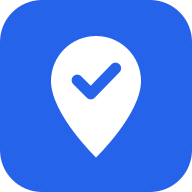
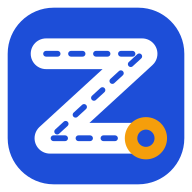
Identidade visual "Rota": símbolo, logotipo em dois pesos, fonte Sora e ícones novos
Claude-Session: https://claude.ai/code/session_01EHX451W5W81AHHNDFqNX2C

diff --git a/frontend/src/components/ModalQRCode.jsx b/frontend/src/components/ModalQRCode.jsx
@@ -1,6 +1,7 @@
 import { useEffect, useState } from 'react'
 import { createPortal } from 'react-dom'
 import { QRCodeSVG } from 'qrcode.react'
+import Logotipo from './Logotipo'
 
 // QR Code com a identidade do app (public/qr-zelador.svg), gerado para https://zeladordigital.vercel.app.
 // Se o endereço oficial mudar, gere de novo; o QR simples (QRCodeSVG) segue como reserva para outros endereços.
@@ -53,8 +54,8 @@ export default function ModalQRCode({ url, onClose, imprimirAoAbrir = false }) {
             ✕
           </button>
           <div className="mb-5">
-            <span className="text-3xl">📲</span>
-            <h2 id="titulo-modal-qr" className="mt-2 text-lg font-black">Divulgue o Zelador Digital</h2>
+            <Logotipo size={30} escuro className="justify-center" />
+            <h2 id="titulo-modal-qr" className="mt-3 text-lg font-black">Divulgue o Zelador Digital</h2>
             <p className="mt-2 text-xs leading-relaxed text-slate-300">
               Leve a fiscalização cidadã para a sua rua em Ananindeua
             </p>
@@ -88,7 +89,7 @@ export default function ModalQRCode({ url, onClose, imprimirAoAbrir = false }) {
         <div className="flex h-[297mm] w-[210mm] flex-col overflow-hidden bg-[#F6F7F2] text-[#14213D]">
           <div className="flex flex-col gap-[4mm] bg-[#1D4ED8] px-[16mm] pb-[13mm] pt-[16mm] text-[#F6F7F2]">
             <p className="text-[11pt] font-black uppercase tracking-[0.25em] text-[#FFE08A]">Ananindeua · zeladoria comunitária</p>
-            <h1 className="text-[52pt] font-black leading-[0.98] tracking-tight">Quem vai consertar a sua rua?</h1>
+            <h1 className="font-marca text-[52pt] font-extrabold leading-[0.98] tracking-tight">Quem vai consertar a sua rua?</h1>
             <p className="max-w-[150mm] text-[15pt] leading-snug text-[#E4EAF5]">A resposta começa com uma foto. Aponte a câmera aqui.</p>
           </div>
           <div className="flex flex-1 flex-col items-center justify-center gap-[5mm]">
@@ -110,7 +111,7 @@ export default function ModalQRCode({ url, onClose, imprimirAoAbrir = false }) {
             ))}
           </div>
           <div className="mx-[16mm] flex items-center justify-between border-t-2 border-[#D9DED3] pb-[11mm] pt-[4.5mm]">
-            <span className="text-[13pt] font-black">Zelador Digital</span>
+            <Logotipo size={36} />
             <span className="text-[10pt] text-[#3E4A61]">Grátis · sem cadastro · zeladordigital.vercel.app</span>
           </div>
         </div>

diff --git a/frontend/src/components/Logotipo.jsx b/frontend/src/components/Logotipo.jsx
@@ -1,0 +1,37 @@
+/**
+ * Marca "Zelador Digital", direção Rota: símbolo (Z feito de rua, com o pino) + nome em dois pesos.
+ * O símbolo é SVG inline para ficar nítido em qualquer tamanho e funcionar offline.
+ */
+export function SimboloMarca({ size = 32, className = '', fundo = '#1D4ED8', traco = '#FFFFFF', acento = '#F59E0B', titulo }) {
+  return (
+    <svg
+      viewBox="0 0 100 100"
+      width={size}
+      height={size}
+      className={className}
+      role={titulo ? 'img' : undefined}
+      aria-label={titulo}
+      aria-hidden={titulo ? undefined : true}
+    >
+      <rect x="4" y="4" width="92" height="92" rx="24" fill={fundo} />
+      <path d="M24 28 H74 L26 72 H76" fill="none" stroke={traco} strokeWidth="16" strokeLinecap="round" strokeLinejoin="round" />
+      <path d="M24 28 H74 L26 72 H76" fill="none" stroke={fundo} strokeWidth="3" strokeDasharray="6 7" strokeLinecap="round" strokeLinejoin="round" />
+      <circle cx="76" cy="72" r="11" fill={acento} />
+      <circle cx="76" cy="72" r="4.5" fill={fundo} />
+    </svg>
+  )
+}
+
+/** Logotipo horizontal. `escuro` para uso sobre fundo escuro. */
+export default function Logotipo({ size = 30, escuro = false, className = '', compacto = false }) {
+  const texto = Math.round(size * 0.78)
+  return (
+    <span className={`inline-flex items-center gap-2 ${className}`}>
+      <SimboloMarca size={size} fundo={escuro ? '#FFFFFF' : '#1D4ED8'} traco={escuro ? '#1D4ED8' : '#FFFFFF'} />
+      <span className="font-marca leading-none tracking-tight whitespace-nowrap" style={{ fontSize: texto }}>
+        <span className={`font-extrabold ${escuro ? 'text-white' : 'text-blue-700'}`}>Zelador</span>{' '}
+        <span className={`font-normal ${escuro ? 'text-white' : 'text-slate-900'} ${compacto ? 'hidden min-[360px]:inline' : ''}`}>Digital</span>
+      </span>
+    </span>
+  )
+}

diff --git a/frontend/index.html b/frontend/index.html
@@ -8,7 +8,7 @@
     
     <!-- Configurações PWA e Dispositivos Móveis -->
     <link rel="manifest" href="/manifest.json" />
-    <meta name="theme-color" content="#2563eb" />
+    <meta name="theme-color" content="#1D4ED8" />
     <meta name="mobile-web-app-capable" content="yes" />
     <meta name="apple-mobile-web-app-capable" content="yes" />
     <meta name="apple-mobile-web-app-status-bar-style" content="black-translucent" />
@@ -17,7 +17,7 @@
     <meta name="description" content="Registre buracos, lixo, postes apagados e esgoto no seu bairro em Ananindeua e acompanhe a resolução pelo número de protocolo." />
     <meta property="og:title" content="Zelador Digital" />
     <meta property="og:description" content="Plataforma cívica independente para mapear e acompanhar problemas urbanos em Ananindeua." />
-    <meta property="og:image" content="/icon-512.png" />
+    <meta property="og:image" content="/og-image.png" />
     <title>Zelador Digital - Gestão Comunitária</title>
   </head>
   <body class="bg-slate-50 antialiased selection:bg-blue-100 selection:text-blue-900">

diff --git a/frontend/src/index.css b/frontend/src/index.css
@@ -1,5 +1,10 @@
 @import "tailwindcss";
 
+/* Fonte da marca (Sora), embutida para funcionar offline. Só títulos e logotipo usam. */
+@font-face { font-family: 'Sora'; font-style: normal; font-weight: 400; font-display: swap; src: url('./assets/sora-latin-400-normal.woff2') format('woff2'); }
+@font-face { font-family: 'Sora'; font-style: normal; font-weight: 600; font-display: swap; src: url('./assets/sora-latin-600-normal.woff2') format('woff2'); }
+@font-face { font-family: 'Sora'; font-style: normal; font-weight: 800; font-display: swap; src: url('./assets/sora-latin-800-normal.woff2') format('woff2'); }
+
 html, body {
   margin: 0;
   padding: 0;
@@ -49,3 +54,4 @@ html.modo-facil .barra-navegacao button > span:last-child { font-size: 0.8125rem
   /* Altura visível real em telemóveis (sem a área por trás da barra de endereço). */
   min-height: 100dvh;
 }
+.font-marca { font-family: 'Sora', system-ui, sans-serif; }

diff --git a/frontend/src/components/ModalSobre.jsx b/frontend/src/components/ModalSobre.jsx
@@ -1,10 +1,11 @@
+import Logotipo from './Logotipo'
 export default function ModalSobre({ setModalSobreAberto, abrirComoUsar }) {
   return (
     <div className="fixed inset-0 z-50 bg-slate-950/70 backdrop-blur-xs flex items-end sm:items-center justify-center p-0 sm:p-4">
       <div className="bg-white w-full max-w-md rounded-t-3xl sm:rounded-3xl p-6 border border-slate-200 shadow-2xl">
         <div className="flex items-start justify-between gap-4">
           <div>
-            <span className="text-[10px] font-black uppercase tracking-wider text-blue-600">Zelador Digital</span>
+            <Logotipo size={26} />
             <h2 className="text-lg font-black text-slate-800 mt-1">Sobre o Desenvolvedor</h2>
           </div>
           <button

diff --git a/frontend/src/components/Header.jsx b/frontend/src/components/Header.jsx
@@ -1,4 +1,5 @@
 import { Accessibility, Bell, Info } from 'lucide-react'
+import Logotipo from './Logotipo'
 
 /**
  * Topo da aplicação: faixas de estado (offline / fila pendente) + barra com título e ações.
@@ -54,10 +55,9 @@ export default function Header({
           <button
             onClick={onIrParaInicio}
             className="text-left focus:outline-none cursor-pointer"
+            aria-label="Zelador Digital, ir para o início"
           >
-            <div>
-              <span className="text-xl font-black text-blue-600 tracking-tight leading-none">Zelador Digital</span>
-            </div>
+            <Logotipo size={32} compacto />
           </button>
 
           <div className="flex items-center gap-2">

diff --git a/CHANGELOG.md b/CHANGELOG.md
@@ -5,6 +5,7 @@ Formato baseado em [Keep a Changelog](https://keepachangelog.com/pt-BR/1.1.0/). 
 ## [Não lançado]
 
 ### Alterado
+- Nova identidade visual "Rota": símbolo (Z feito de rua com o pino do problema), nome em dois pesos com a fonte Sora (embutida, funciona offline), ícones do app, favicon, imagem de compartilhamento e cartaz atualizados. Cor principal #1D4ED8 e detalhe #F59E0B.
 - Código reorganizado: o App.jsx caiu de ~2.450 para ~1.240 linhas, com telas em `src/telas/`, modais em `src/components/` e funções auxiliares em `src/lib/` (sem mudança de comportamento).
 
 ### Alterado (licença)

diff --git a/docs/midia/README.md b/docs/midia/README.md
@@ -4,6 +4,7 @@
 |---|---|
 | `como-usar.mp4` | Vídeo-tutorial de 64 s (1080×1920, vertical), com legendas grandes, pronto para WhatsApp, Instagram e TikTok. Trilha sintetizada, sem direitos de terceiros. |
 | `como-usar-capa.png` | Capa do vídeo. |
+| `marca-logotipo.png` | Logotipo horizontal (1200×630), também usado como imagem de compartilhamento. |
 
 O vídeo foi gravado a partir do app real (versão de 15/11/2026). Para gravar de novo depois de mudanças
 visuais, o roteiro está em `/home/claude/video-zd/gravar.cjs` da sessão de criação; peça para regenerar.
